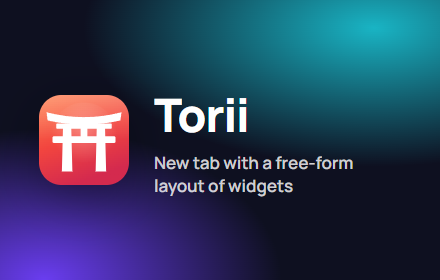
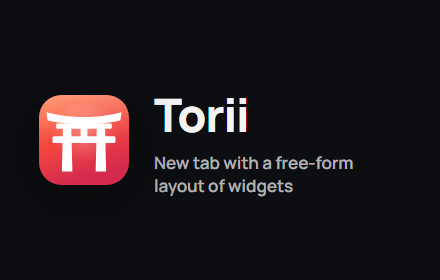
Промо-картинки для магазина: плитка 440×280 и большая 1400×560 на тёмном фоне

diff --git a/CLAUDE.md b/CLAUDE.md
@@ -38,7 +38,8 @@ tests/perf.mjs         замер скорости (npm run perf; --profile — 
 tests/i18n-scan.mjs    русские строки без английского перевода (npm run i18n) — гонять после новых текстов
 tests/firefox.mjs      смоук в движке Firefox (npm run test:firefox): страница вкладки с локального сервера, API расширения — заглушка
 scripts/build.mjs      сборка под магазины (npm run build) → dist/torii-<версия>-chrome.zip и -firefox.zip (+ распакованные копии)
-scripts/store-shots.mjs скриншоты для магазинов (npm run store) → store/screenshots/{ru,en}/*.png 1280×800 + промо-плитки 440×280; нужна сеть (иконки сайтов)
+scripts/store-shots.mjs скриншоты для магазинов (npm run store) → store/screenshots/{ru,en}/*.png 1280×800; нужна сеть (иконки сайтов)
+scripts/store-promo.mjs промо-картинки (тоже npm run store, или отдельно): плитка 440×280 и большая 1400×560 на тёмном фоне, 24-битный PNG без альфы
 store/                 карточка магазина: listing-ru.md / listing-en.md (описание, обоснования разрешений, поля), privacy-policy.md
 site/                  сайт (GitHub Pages: dvmnum.github.io/torii) — index.html (ru), en/index.html, privacy.html, style.css, gallery.js (лайтбокс скриншотов: ссылки с data-gallery, стрелки/клавиши/свайп); без сборки.
                        Ссылки на магазины и Boosty — href="#" + data-soon («скоро»); после публикации вписать адрес и убрать data-soon.

diff --git a/store/listing-ru.md b/store/listing-ru.md
@@ -4,7 +4,7 @@
 - **Название:** Torii — новая вкладка
 - **Краткое описание:** Новая вкладка со свободной раскладкой: двигай и растягивай виджеты как хочешь. Живые фоны, стекло, раскладки.
 
-Скриншоты — `store/screenshots/ru/` (1280×800, в этом порядке), промо-плитка — `store/promo-440x280-ru.png`.
+Скриншоты — `store/screenshots/ru/` (1280×800, в этом порядке), малая промо-плитка — `store/promo-440x280-ru.png`, большое рекламное изображение (1400×560) — `store/marquee-1400x560-ru.png`.
 Пересобрать: `npm run store`.
 
 ---

diff --git a/store/listing-en.md b/store/listing-en.md
@@ -4,7 +4,7 @@ The store takes the name and short description from the extension (`plitka/_loca
 - **Name:** Torii — New Tab
 - **Short description:** A new tab with a free-form layout: drag and resize widgets anywhere. Live backgrounds, glass, saved layouts.
 
-Screenshots — `store/screenshots/en/` (1280×800, in this order), promo tile — `store/promo-440x280-en.png`.
+Screenshots — `store/screenshots/en/` (1280×800, in this order), small promo tile — `store/promo-440x280-en.png`, marquee (1400×560) — `store/marquee-1400x560-en.png`.
 Rebuild: `npm run store`.
 
 ---
